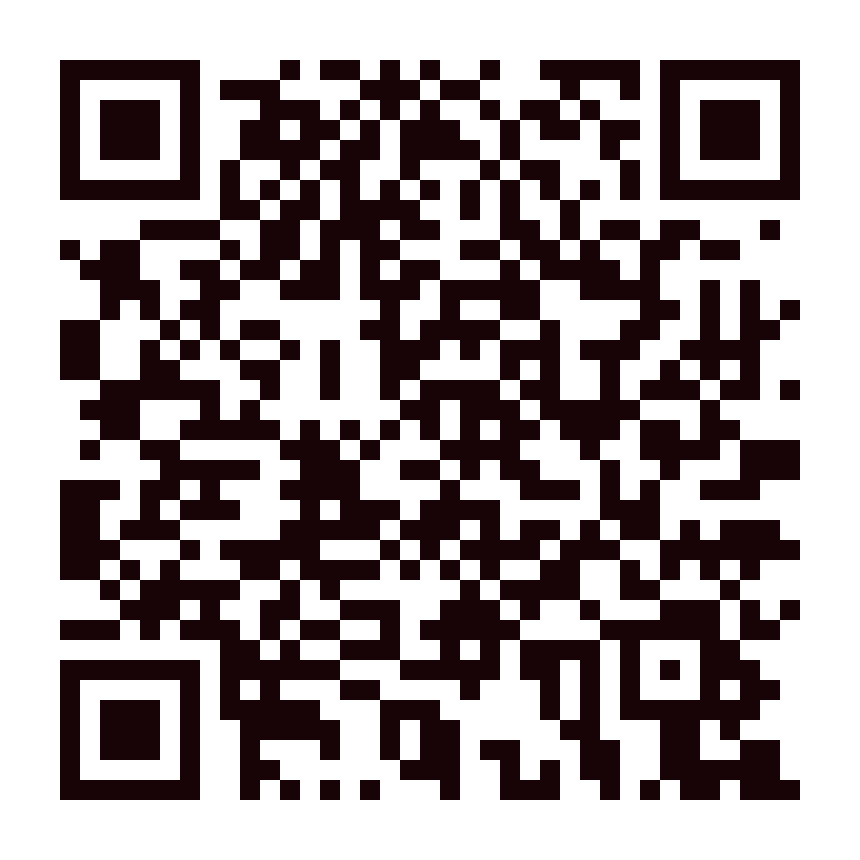
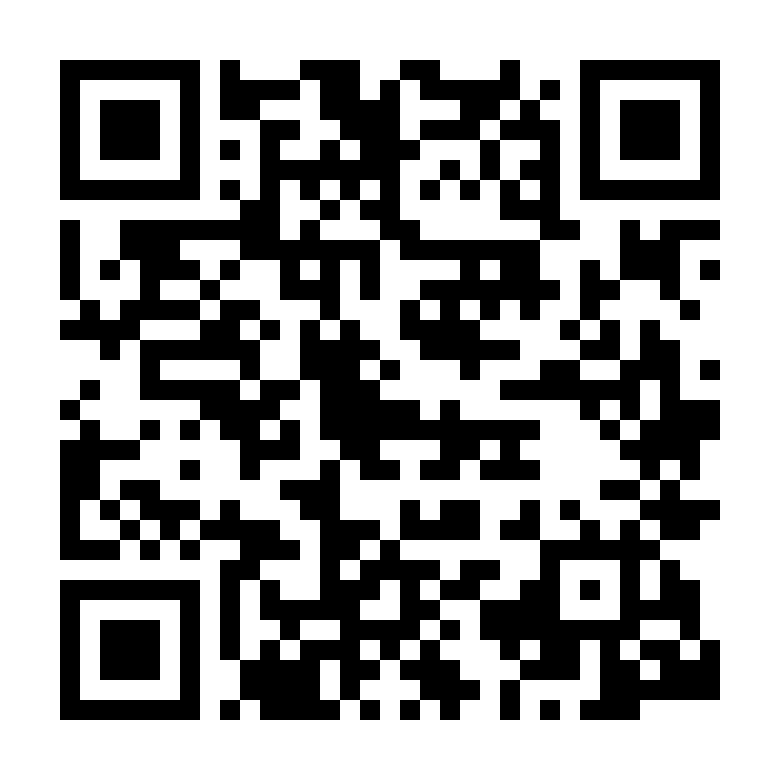
Configure 28 Paarroo dedicated GitHub Pages landing page and workflow

diff --git a/config.js b/config.js
@@ -36,8 +36,8 @@ var RESTAURANT_CONFIG = {
     footerThanks: "Thank You For Visiting 28 Paarroo 🌴",
     footerCity: "Crafted with care in Indore",
 
-    // 7. Hosted Landing Page URL (Naye repo ke liye ya direct Google Review)
-    landingPageUrl: "https://share.google/ao3kZ8lE7ug4gjlHP"
+    // 7. Hosted Landing Page URL (28 Paarroo GitHub Pages live link)
+    landingPageUrl: "https://namangarg-06.github.io/28-Paarroo-QR/"
 };
 
 if (typeof module !== 'undefined' && module.exports) {

diff --git a/generate_qr.py b/generate_qr.py
@@ -15,7 +15,7 @@ from PIL import Image, ImageDraw, ImageFont
 
 def load_config():
     config = {
-        "landingPageUrl": "https://share.google/ao3kZ8lE7ug4gjlHP",
+        "landingPageUrl": "https://namangarg-06.github.io/28-Paarroo-QR/",
         "restaurantName": "28 Paarroo",
         "tagline": "SOUTH INDIAN & MULTI-CUISINE • PURE VEG",
         "phoneNumber": "9055966555",
